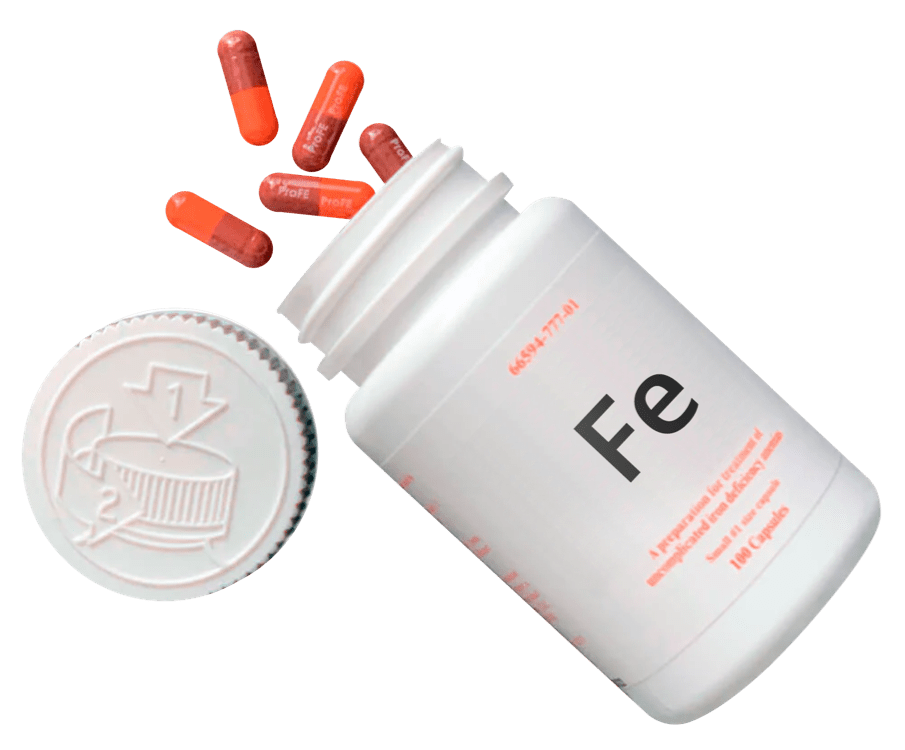
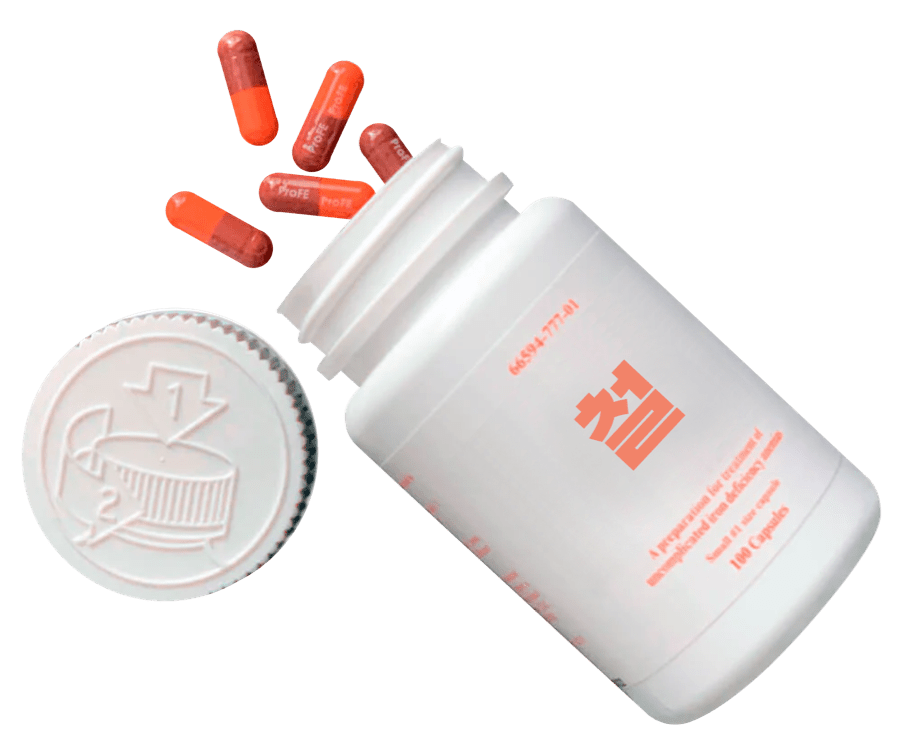
stage5까지 수정 완료

Changed region(s): [[0.6188, 0.46, 0.7735, 0.644]]

diff --git a/js/module/quizPopup.js b/js/module/quizPopup.js
@@ -17,18 +17,14 @@ const quizPopData = {
       }
     },
     'step-7' : {
-      title : `문제. 철분의 원소기호는 무엇일까?`,
-      expl : `보건소 의사에게 철분제를 얻었다. <br/>철분의 원소기호를 맞춰 빈혈 증세가 있는 임산부에게 전달하자.`,
-      type : 'multiple',
-      answer : [
-        'Na',
-        'Fe',
-        'He'
-      ],
-      correct : 2,
+      title : `문제. 철의 원소기호와 원자번호를 쓰세요.`,
+      expl : `(대소문자 구분 필수. 예. 나트륨 = Na+11 = Na11)<br/>철분의 원소기호를 맞춰 빈혈 증세가 있는 임산부에게 전달하자.`,
+      type : 'word',
+      answer : '<input name="" id="" class="quiz-input" placeholder="정답을 입력하세요.">',
+      correct : 'Fe26',
       btn : `<button type="button" class="btn1 quiz-pop-button quiz-check-btn">정답 제출하기</button>`,
       check : {
-        expl : `Mission 해결 - 첫번째 코드 확보 [CITIZEN]<br/>다음 장소인 '출산을 앞둔 가정'으로 이동하자.`,
+        expl : `정답. Fe26<br/>해설. 철의 원소기호 Fe 원자번호는 26번이다.<br/>Mission 해결 - 첫번째 코드 확보 [CITIZEN]`,
         btn : `<button type="button" class="btn1 quiz-pop-button link-btn">마을로 나가기</button>`
       }
     }
@@ -47,20 +43,49 @@ const quizPopData = {
       }
     },
   },
+  'stage-4' : {
+    'step-4' : {
+      title : `암호를 찾아라!`,
+      expl : ` 'Stage4 암호표에서 MUAC을 암호화 한 값을 넣어보자.<br/>암호 입력은 대문자만 가능하다.`,
+      type : 'word',
+      answer : '<input name="" id="" class="quiz-input" placeholder="정답을 입력하세요.">',
+      correct : 'C2D5A1A3',
+      btn : `<button type="button" class="btn1 quiz-pop-button quiz-check-btn">정답 제출하기</button>`,
+      check : {
+        expl : `정답 : C2D5A1A3<br/>해설 : C2(M)D5(U)A1(A)A3(C) = C2D5A1A3`,
+        btn : `<button type="button" class="btn1 quiz-pop-button info-btn">둘레 측정하기</button>`
+      }
+    },
+    'step-6' : {
+      title : `암호를 찾아라!`,
+      expl : ` '1. 바나나(BANANA) 영어 스펠링을 숫자로 바꾸고 합을 구하세요.<br/>(바나나 영문 숫자는 Stage 3 암호표 참고)<br/>2. 바나나에 들어 있는 성분인 OO의 원자번호 찾으세요.<br/>3. 1번의 값과 2번의 값을 빼세요.`,
+      type : 'word',
+      answer : '<input name="" id="" class="quiz-input" placeholder="정답을 입력하세요.">',
+      correct : 14,
+      btn : `<button type="button" class="btn1 quiz-pop-button quiz-check-btn">정답 제출하기</button>`,
+      check : {
+        expl : `정답 : 14<br/>1. 바나나 영문 숫자의 합 : B(2)+A(1)+N(14)+A(1)+N(14)+A(1)=33<br/>2. 칼륨의 원소번호 : 19<br/>3. 33-19 = 14`,
+        btn : `<button type="button" class="btn1 quiz-pop-button info-btn">이유식 먹이기</button>`
+      }
+    },
+  },
   'stage-5' : {
     'step-1' : {
       title : `문제. 이 청소년이 가야할 곳은?`,
-      expl : `청소년 친화 보건시설의 약자`,
-      type : 'multiple',
-      answer : [
-        'AFET',
-        'AEHF',
-        'AFHF'
-      ],
-      correct : 3,
+      expl : `청소년 친화 보건시설의 약자 (Stage 5 암호표를 참고하세요.)
+      <div class="quiz-choice-etc5_1_wrap">
+        <div class="hansans quiz-choice-etc5_1"></div>
+        <div class="hansans quiz-choice-etc5_1"></div>
+        <div class="hansans quiz-choice-etc5_1"></div>
+        <div class="hansans quiz-choice-etc5_1"></div>
+      </div>
+      `,
+      type : 'word',
+      answer : `<input name="" id="" class="quiz-input" placeholder="정답을 입력하세요.">`,
+      correct : 'AFHF',
       btn : `<button type="button" class="btn1 quiz-pop-button quiz-check-btn">정답 제출하기</button>`,
       check : {
-        expl : `소녀와 함께 ‘청소년 친화 보건시설’로 이동하자!<br/>마을에서 청소년 친화 보건시설[AFHF]을 찾아보세요.`,
+        expl : `청소년 친화 보건시설(AFHF : Adolescent Friendly Health Facility)로 이동하자!<br/>마을에서 청소년 친화 보건시설[AFHF]을 찾아보세요.`,
         btn : `<button type="button" class="btn1 quiz-pop-button step-btn">마을로 돌아가기</button>`
       }
     },

diff --git a/js/module/dialog.js b/js/module/dialog.js
@@ -277,21 +277,21 @@ const dialogData = {
         {
           type : 'talk',
           text1 : '[ 보건요원 ]',
-          text2 : '(10대 소녀인데 임신상태인 것 같다.)',
+          text2 : '(10대 소녀인데, 힘들어보인다)',
           prev : ``,
           next : `<button type="button" class="dialog-arrow-next dialog-next">다음으로&nbsp;&nbsp;&gt;</button>`
         },
         {
           type : 'talk',
           text1 : '[ 보건요원 ]',
-          text2 : '안녕. 나는 월드비전 보건요원이야.<br/>힘들어보이는데, 괜찮니? 혹시 임신했으면 내가 도와줄 수 있어.',
+          text2 : '안녕. 나는 월드비전 보건요원이야.<br/>힘들어보이는데, 괜찮니?',
           prev : `<button type="button" class="dialog-arrow-prev dialog-prev">&lt;&nbsp;&nbsp;이전으로</button>`,
           next : `<button type="button" class="dialog-arrow-next dialog-next">다음으로&nbsp;&nbsp;&gt;</button>`
         },
         {
           type : 'talk',
           text1 : '[ 10대 임산부 ]',
-          text2 : '안녕... 하세요.<br/>맞아요. 얼마전에 제가 임신한 사실을 알게 되었어요,',
+          text2 : '안녕... 하세요.<br/>맞아요. 얼마전에 제가 임신한 사실을 알게 되었어요.',
           prev : `<button type="button" class="dialog-arrow-prev dialog-prev">&lt;&nbsp;&nbsp;이전으로</button>`,
           next : `<button type="button" class="dialog-arrow-next dialog-next">다음으로&nbsp;&nbsp;&gt;</button>`
         },
@@ -305,7 +305,7 @@ const dialogData = {
         {
           type : 'talk',
           text1 : '[ 보건요원 ]',
-          text2 : '걱정하지마. 너를 도와줄 수 있는 청소년 보건 친화 시설을 소개해줄게.',
+          text2 : '걱정하지마. 너를 도와줄 수 있는 청소년 친화 보건시설을 소개해줄게.',
           prev : `<button type="button" class="dialog-arrow-prev dialog-prev">&lt;&nbsp;&nbsp;이전으로</button>`,
           next : `<button type="button" class="dialog-arrow-next quiz-btn">다음으로&nbsp;&nbsp;&gt;</button>`
         }
@@ -315,7 +315,7 @@ const dialogData = {
       msg : [
         {
           type : 'notice',
-          text1 : '보건소에 들어왔습니다. 의사를 찾아 말을 걸어보세요.'
+          text1 : '청소년 친화 보건시설에 들어왔습니다. 의사를 찾아 말을 걸어보세요.'
         }
       ]
     },

diff --git a/css/contents.css b/css/contents.css
@@ -243,6 +243,14 @@
 #stage-5 #step-0 .step-btn {position: absolute; top: 249px; left: 815px; z-index: 5; width: 44px; height: 88px; background: url('/img/stage-5_step-0_step.png') no-repeat center/contain;}
 
 #stage-5 #step-1 {background: url('/img/stage-5_step-1_bg.jpg') no-repeat center/contain;}
+#quiz-pop .quiz-choice-etc5_1 {display: block; position: relative; text-align: center; width: 100px; height: 100px; border: 1px solid #fff; border-radius: 0; cursor: pointer;}
+#quiz-pop .quiz-choice-etc5_1:after {content: ""; display: block; width: 10px; height: 10px; border-radius: 50%; position: absolute; top: 50%; left: 50%; z-index: 5; margin: -5px 0 0 -5px; background: #fff;}
+#quiz-pop .quiz-choice-etc5_1_wrap {display: flex; flex-flow: row wrap; justify-content: center; align-items: center; gap: 0 24px; margin-top: 24px;}
+#quiz-pop .quiz-choice-etc5_1:nth-child(1) {border-top: 0; border-left: 0;}
+#quiz-pop .quiz-choice-etc5_1:nth-child(1):after {display: none;}
+#quiz-pop .quiz-choice-etc5_1:nth-child(2) {border-top: 0; border-right: 0;}
+#quiz-pop .quiz-choice-etc5_1:nth-child(3) {border-left: 0;}
+#quiz-pop .quiz-choice-etc5_1:nth-child(4) {border-top: 0; border-right: 0;}
 
 #stage-5 #step-2 {background: url('/img/stage-5_step-2_bg.jpg') no-repeat center/contain;}
 #stage-5 #step-2 .step-btn {position: absolute; top: 336px; right: 196px; z-index: 5; width: 96px; height: 96px; background: url('/img/arrow-right.png') no-repeat center/contain;}

diff --git a/js/contents.js b/js/contents.js
@@ -91,11 +91,11 @@ window.onload = function() {
       }
     } else if(stage == "stage-4" && step == "step-4") {
       if(itemId == 'muac') {
-        $("#item-pop .item-pop-inner").append(`<button type="button" class="btn1 item-pop-button info-btn">진단하기</button>`);
+        $("#item-pop .item-pop-inner").append(`<button type="button" class="btn1 item-pop-button quiz-btn">진단하기</button>`);
       }
     } else if(stage == "stage-4" && step == "step-6") {
       if(itemId == 'babyfood') {
-        $("#item-pop .item-pop-inner").append(`<button type="button" class="btn1 item-pop-button info-btn">아이템 사용하기</button>`);
+        $("#item-pop .item-pop-inner").append(`<button type="button" class="btn1 item-pop-button quiz-btn">아이템 사용하기</button>`);
       }
     }
   });

diff --git a/js/module/infoPopup.js b/js/module/infoPopup.js
@@ -71,7 +71,7 @@ const infoPopData = {
     },
     'step-6' : {
       title : `미션 완료!`,
-      expl : `다행이도 아이가 잘 먹는다. 아이의 영양상태가 개선되었다!<br/>Mission 해결 - 세번째 코드 확보 [ACTION]<br/>마을에 '10대 임산부'가 있진 않은지 둘러보자!`,
+      expl : `다행히 아이가 잘 먹는다. 아이의 영양상태가 개선되었다!<br/>Mission 해결 - 세번째 코드 확보 [ACTION]<br/>마을로 나가 도움이 필요한 사람이 더 있는지 둘러보자!`,
       img : {
         size : [],
         imgFile : ``

diff --git a/js/module/itemData.js b/js/module/itemData.js
@@ -56,8 +56,8 @@ export const itemData = {
     }
   },
   'fe' : {
-    title : '[Fe]',
-    expl : '인체에 부족한 철분을 보충해 주는 약제. 빈혈에 도움을 준다.',
+    title : '철분제',
+    expl : '인체에 부족한 철분을 보충해 주는 약제로 만들어진 철분약. <br/>빈혈에 도움을 준다. 원소주기율표에 원소기호는 ?? 이다.',
     img : {
       inven : {
         imgSize : [24, 40],
